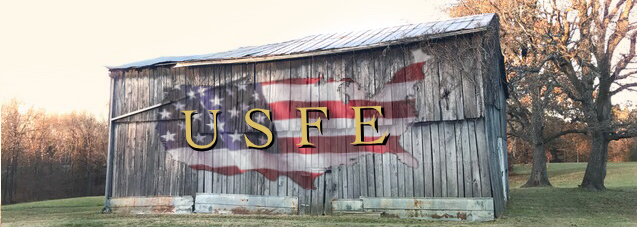
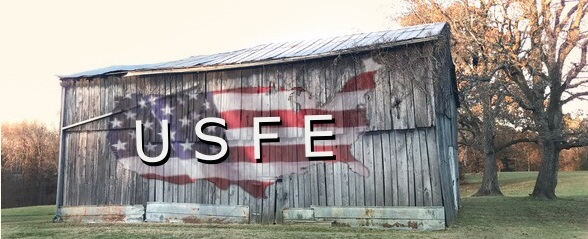
Updated USFE Barn

diff --git a/USFarmExchange/USFarmExchange/styles/default.css b/USFarmExchange/USFarmExchange/styles/default.css
@@ -557,12 +557,9 @@ html body form .RadInput .MyFocusedTextBox {
 }
 #wrapper .largeheaderaboutus {
     position: relative;
-    /*padding: 1.875em;
-  padding-top: 1em;*/
     overflow: hidden;
     background-size: cover;
     background-position: center;
     background-image: url(/images/USFEBarn.png);
-    min-height: 600px;
+    min-height: 400px;
 }
-.
